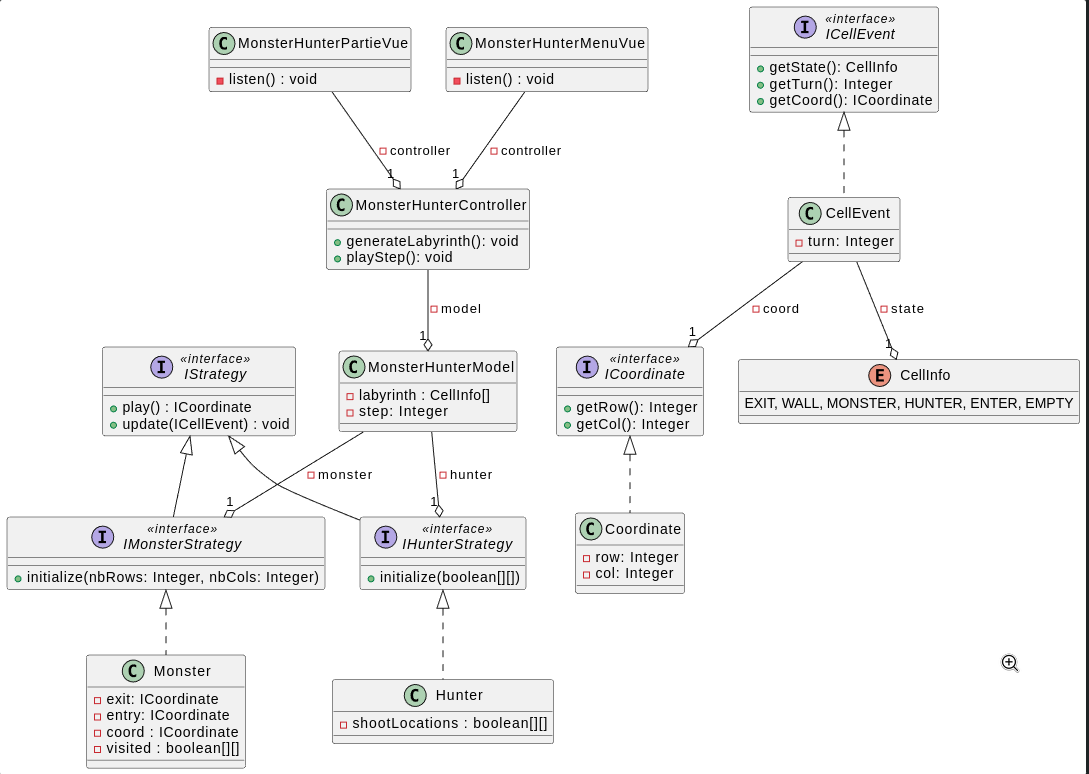
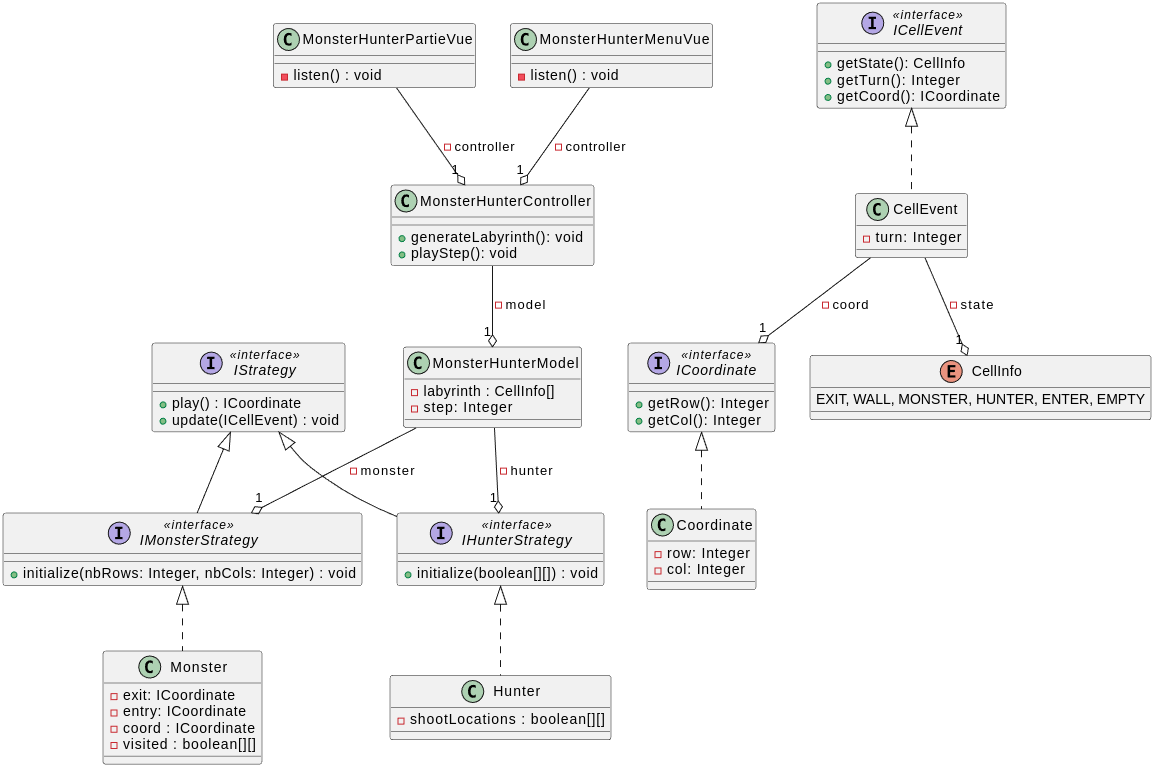
Modification du modèle et de la Stratégie, Modification de l'UML

diff --git a/src/main/java/chasseaumonstre/strategy/hunter/Hunter.java b/src/main/java/chasseaumonstre/strategy/hunter/Hunter.java
@@ -1,13 +1,11 @@
 package chasseaumonstre.strategy.hunter;
 
+import chasseaumonstre.model.ICellEvent;
+import chasseaumonstre.model.ICoordinate;
+
 public class Hunter implements IHunterStrategy {
     private boolean[][] shootLocations;
     private String name;
-
-    @Override
-    public void initialize(boolean[][] locations) {
-        this.shootLocations = locations;
-    }
 
     public boolean[][] getShootLocations() {
         return this.shootLocations;
@@ -19,5 +17,21 @@ public class Hunter implements IHunterStrategy {
 
     public void setName(String name) {
         this.name = name;
+    }
+
+    @Override
+    public void initialize(boolean[][] locations) {
+        this.shootLocations = locations;
+    }
+
+    @Override
+    public ICoordinate play() {
+        throw new UnsupportedOperationException("Unimplemented method 'play'");
+    }
+
+    @Override
+    public void update(ICellEvent event) {
+        ICoordinate coord = event.getCoordinate();
+        this.shootLocations[coord.getRow()][coord.getCol()] = true;
     }
 }

diff --git a/src/main/java/chasseaumonstre/model/MonsterHunterModel.java b/src/main/java/chasseaumonstre/model/MonsterHunterModel.java
@@ -1,5 +1,20 @@
 package chasseaumonstre.model;
 
 public class MonsterHunterModel {
+    private CellInfo[] labyrinth;
+    private Integer step;
+
+    public MonsterHunterModel(CellInfo[] labyrinth, Integer step) {
+        this.labyrinth = labyrinth;
+        this.step = step;
+    }
+
+    public CellInfo[] getLabyrinth() {
+        return this.labyrinth;
+    }
+
+    public Integer getStep() {
+        return this.step;
+    }
     
 }

diff --git a/src/main/java/chasseaumonstre/strategy/hunter/IHunterStrategy.java b/src/main/java/chasseaumonstre/strategy/hunter/IHunterStrategy.java
@@ -1,5 +1,7 @@
 package chasseaumonstre.strategy.hunter;
 
-public interface IHunterStrategy {
+import chasseaumonstre.strategy.IStrategy;
+
+public interface IHunterStrategy extends IStrategy {
     public void initialize(boolean[][] locations);
 }
